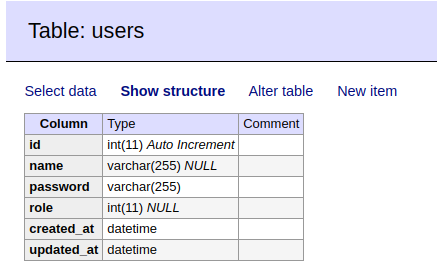
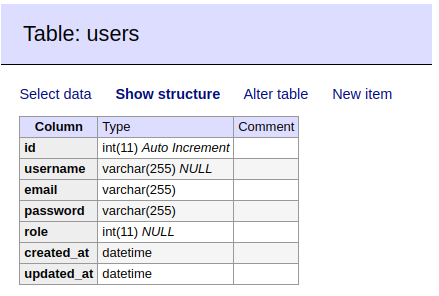
Added last changes

diff --git a/src/Services/Auth/AuthenticationService.php b/src/Services/Auth/AuthenticationService.php
@@ -1,11 +1,105 @@
 <?php
 
-namespace App\Services\PDO;
+namespace App\Services\Auth;
+
+use App\DAO\IDAO;
+use App\DAO\UsersDAO;
+use App\Models\User;
+use App\Services\Http\Request;
 
 class AuthenticationService {
 
-    public function init() {
+    const WRONG_METHOD_ERROR = 'Wrong method selected, please use POST';
+    const WRONG_REQUEST_BODY = 'Please include email and password fields in the request';
+    const USER_NOT_FOUND = 'There is no such user registered';
+
+    private $errors;
+
+    /** @var UsersDAO $usersDAO */
+    private $usersDAO;
+
+    public function __construct(IDAO $usersDAO)
+    {
         session_start();
+        $this->usersDAO = $usersDAO;
     }
 
+    /**
+     * @return mixed
+     */
+    public function getErrors()
+    {
+        return $this->errors;
+    }
+
+    /**
+     * @param mixed $errors
+     */
+    public function setErrors($errors): void
+    {
+        $this->errors = $errors;
+    }
+
+
+    public function authenticate(Request $request): ?User
+    {
+        $body = $request->getBody();
+
+        if (!$this->validate($body)) {
+            return null;
+        }
+
+        $user = $this->usersDAO->findByEmailAndPassword(
+            trim($body['email']),
+            trim($body['password'])
+        );
+        if (!$user) {
+            $this->errors = [
+                'message' => self::USER_NOT_FOUND
+            ];
+            return null;
+        }
+
+        $user = User::fromObject($user);
+
+        $this->saveUserToSession($user);
+
+        return $user;
+    }
+
+    private function validate(array $body): bool
+    {
+        if (!$body) {
+            $this->errors = [
+                'message' => self::WRONG_METHOD_ERROR
+            ];
+            return false;
+        }
+
+        if (!isset($body['email']) || !isset($body['password'])) {
+            $this->errors = [
+                'message' => self::WRONG_REQUEST_BODY
+            ];
+            return false;
+        }
+
+        return true;
+    }
+
+    private function saveUserToSession(User $user)
+    {
+        $_SESSION['email'] = $user->getEmail();
+    }
+
+    public function isLoggedIn() {
+        return isset($_SESSION['email']);
+    }
+
+    public function getAuthenticatedUser()
+    {
+        $user = $this->usersDAO->findByEmail(
+            trim($_SESSION['email'])
+        );
+        return User::fromObject($user);
+    }
 }

diff --git a/src/Templates/home.php b/src/Templates/home.php
@@ -25,15 +25,24 @@
             <a class="navbar-brand" href="#">Check24 technical blog</a>
         </div>
         <div id="navbar" class="navbar-collapse collapse">
-            <form class="navbar-form navbar-right">
-                <div class="form-group">
-                    <input type="text" placeholder="Email" class="form-control">
-                </div>
-                <div class="form-group">
-                    <input type="password" placeholder="Password" class="form-control">
-                </div>
-                <button type="submit" class="btn btn-success">Sign in</button>
-            </form>
+            <?php
+            /** @var \App\Models\User $user */
+            if ($user) {
+                echo "Hello " . $user->getUsername();
+            } else {
+            ?>
+                <form class="navbar-form navbar-right" method="POST" action="/login">
+                    <div class="form-group">
+                        <input name="email" type="text" placeholder="Email" class="form-control">
+                    </div>
+                    <div class="form-group">
+                        <input name="password" type="password" placeholder="Password" class="form-control">
+                    </div>
+                    <button type="submit" class="btn btn-success">Sign in</button>
+                </form>
+            <?php
+            }
+            ?>
         </div><!--/.navbar-collapse -->
     </div>
 </nav>

diff --git a/public/index.php b/public/index.php
@@ -1,5 +1,6 @@
 <?php declare(strict_types=1);
 
+use App\Controllers\LoginController;
 use App\Services\Http\Router;
 use App\Services\Http\Request;
 use App\Controllers\HomeController;
@@ -7,20 +8,35 @@ use App\Services\View\View;
 use App\Services\PDO\PDOImpl;
 use App\DAO\UsersDAO;
 use App\DAO\ArticlesDAO;
+use App\Services\Auth\AuthenticationService;
 
 require dirname(__DIR__).'/config/bootstrap.php';
 
-$router = new Router(new Request());
+$request = new Request();
+$router = new Router($request);
 $pdo = PDOImpl::getPDO();
 $usersDAO = new UsersDAO($pdo);
 $articlesDAO = new ArticlesDAO($pdo);
+$auth = new AuthenticationService($usersDAO);
 
-$router->get('/', function() use ($usersDAO, $articlesDAO) {
-    $contoller = new HomeController(
+$router->get('/', function() use ($usersDAO, $articlesDAO, $auth) {
+    $controller = new HomeController(
         new View( dirname(__DIR__).'/src/Templates' ),
+        $auth,
         $usersDAO,
         $articlesDAO
     );
-    return $contoller
+    return $controller
+        ->indexAction();
+});
+
+$router->post('/login', function() use ($usersDAO, $auth, $request) {
+    $controller = new LoginController(
+        new View( dirname(__DIR__).'/src/Templates' ),
+        $auth,
+        $request,
+        $usersDAO
+    );
+    return $controller
         ->indexAction();
 });

diff --git a/src/Models/User.php b/src/Models/User.php
@@ -5,7 +5,8 @@ namespace App\Models;
 class User {
 
     private $id;
-    private $name;
+    private $username;
+    private $email;
     private $password;
     private $role;
     private $createdAt;
@@ -30,17 +31,33 @@ class User {
     /**
      * @return mixed
      */
-    public function getName()
+    public function getUsername()
     {
-        return $this->name;
+        return $this->username;
     }
 
     /**
-     * @param mixed $name
+     * @param mixed $username
      */
-    public function setName($name): void
+    public function setUsername($username): void
     {
-        $this->name = $name;
+        $this->username = $username;
+    }
+
+    /**
+     * @return mixed
+     */
+    public function getEmail()
+    {
+        return $this->email;
+    }
+
+    /**
+     * @param mixed $email
+     */
+    public function setEmail($email): void
+    {
+        $this->email = $email;
     }
 
     /**
@@ -111,7 +128,8 @@ class User {
         $user = new self();
 
         $user->setId($sourceObject->id);
-        $user->setName($sourceObject->name);
+        $user->setUsername($sourceObject->username);
+        $user->setEmail($sourceObject->email);
         $user->setPassword($sourceObject->password);
         $user->setRole($sourceObject->role);
         $user->setCreatedAt($sourceObject->created_at);

diff --git a/src/Controllers/HomeController.php b/src/Controllers/HomeController.php
@@ -5,6 +5,7 @@ namespace App\Controllers;
 use App\DAO\IDAO;
 use App\Models\Article;
 use App\Models\User;
+use App\Services\Auth\AuthenticationService;
 use App\Services\View\View;
 use App\DTO\ArticlesDTO;
 
@@ -14,24 +15,28 @@ class HomeController extends ActionController {
 
     private $usersDAO;
     private $articlesDAO;
+    private $auth;
 
-    public function __construct(View $view, IDAO ...$dao)
+    public function __construct(View $view, AuthenticationService $auth, IDAO ...$dao)
     {
         parent::__construct($view);
 
+        $this->auth = $auth;
         $this->usersDAO = $dao[0];
         $this->articlesDAO = $dao[1];
     }
 
     public function indexAction()
     {
-        $user = User::fromObject($this->usersDAO->findById(1));
         $articleModel = Article::fromObject($this->articlesDAO->findById(1));
         $articleDto = ArticlesDTO::convertToDto($articleModel);
 
         return $this->render(
             $this->template,
-            ['top_post' => $articleDto]
+            [
+                'top_post' => $articleDto,
+                'user' => ($this->auth->isLoggedIn()) ? $this->auth->getAuthenticatedUser() : null
+            ]
         );
     }
 

diff --git a/src/DAO/UsersDAO.php b/src/DAO/UsersDAO.php
@@ -11,9 +11,25 @@ class UsersDAO implements IDAO {
         $this->pdo = $pdo;
     }
 
-    public function findById(int $id) {
+    public function findById(int $id)
+    {
         $stmt = $this->pdo->prepare("SELECT * FROM users WHERE id=:id");
         $stmt->execute(['id' => $id]);
         return $stmt->fetchObject();
     }
+
+    public function findByEmail(string $email)
+    {
+        $stmt = $this->pdo->prepare("SELECT * FROM users WHERE email=:email");
+        $stmt->execute(['email' => $email]);
+        return $stmt->fetchObject();
+    }
+
+    public function findByEmailAndPassword($email, $password)
+    {
+        $stmt = $this->pdo->prepare("SELECT * FROM users WHERE email=:email AND password=MD5(:password)");
+        $stmt->execute(['email' => $email, 'password' => $password]);
+        return $stmt->fetchObject();
+    }
+
 }

diff --git a/src/Controllers/LoginController.php b/src/Controllers/LoginController.php
@@ -1,0 +1,36 @@
+<?php
+
+namespace App\Controllers;
+
+use App\DAO\IDAO;
+use App\Models\Article;
+use App\Models\User;
+use App\Services\Auth\AuthenticationService;
+use App\Services\Http\Request;
+use App\Services\View\View;
+use App\DTO\ArticlesDTO;
+
+class LoginController extends ActionController {
+
+    private $template = 'home';
+
+    private $usersDAO;
+    private $auth;
+    private $request;
+
+    public function __construct(View $view, AuthenticationService $auth, Request $request, IDAO ...$dao)
+    {
+        parent::__construct($view);
+
+        $this->auth = $auth;
+        $this->request = $request;
+        $this->usersDAO = $dao[0];
+    }
+
+    public function indexAction()
+    {
+        $this->auth->authenticate($this->request);
+        header("Location: /");
+    }
+
+}

diff --git a/README.md b/README.md
@@ -24,6 +24,12 @@ docker-compose exec check composer install
 - http://0.0.0.0:8000/ - main application
 - http://0.0.0.0:8080/ - adminer
 
+## DB (and Adminer credentials)
+- DB_SERVER=db-mysql
+- DB_USERNAME=root
+- DB_PASSWORD=root
+- DB_NAME=check
+
 ## DB structure
 ![alt text](./public/assets/img/image2.png)
 ![alt text](./public/assets/img/image3.png)
